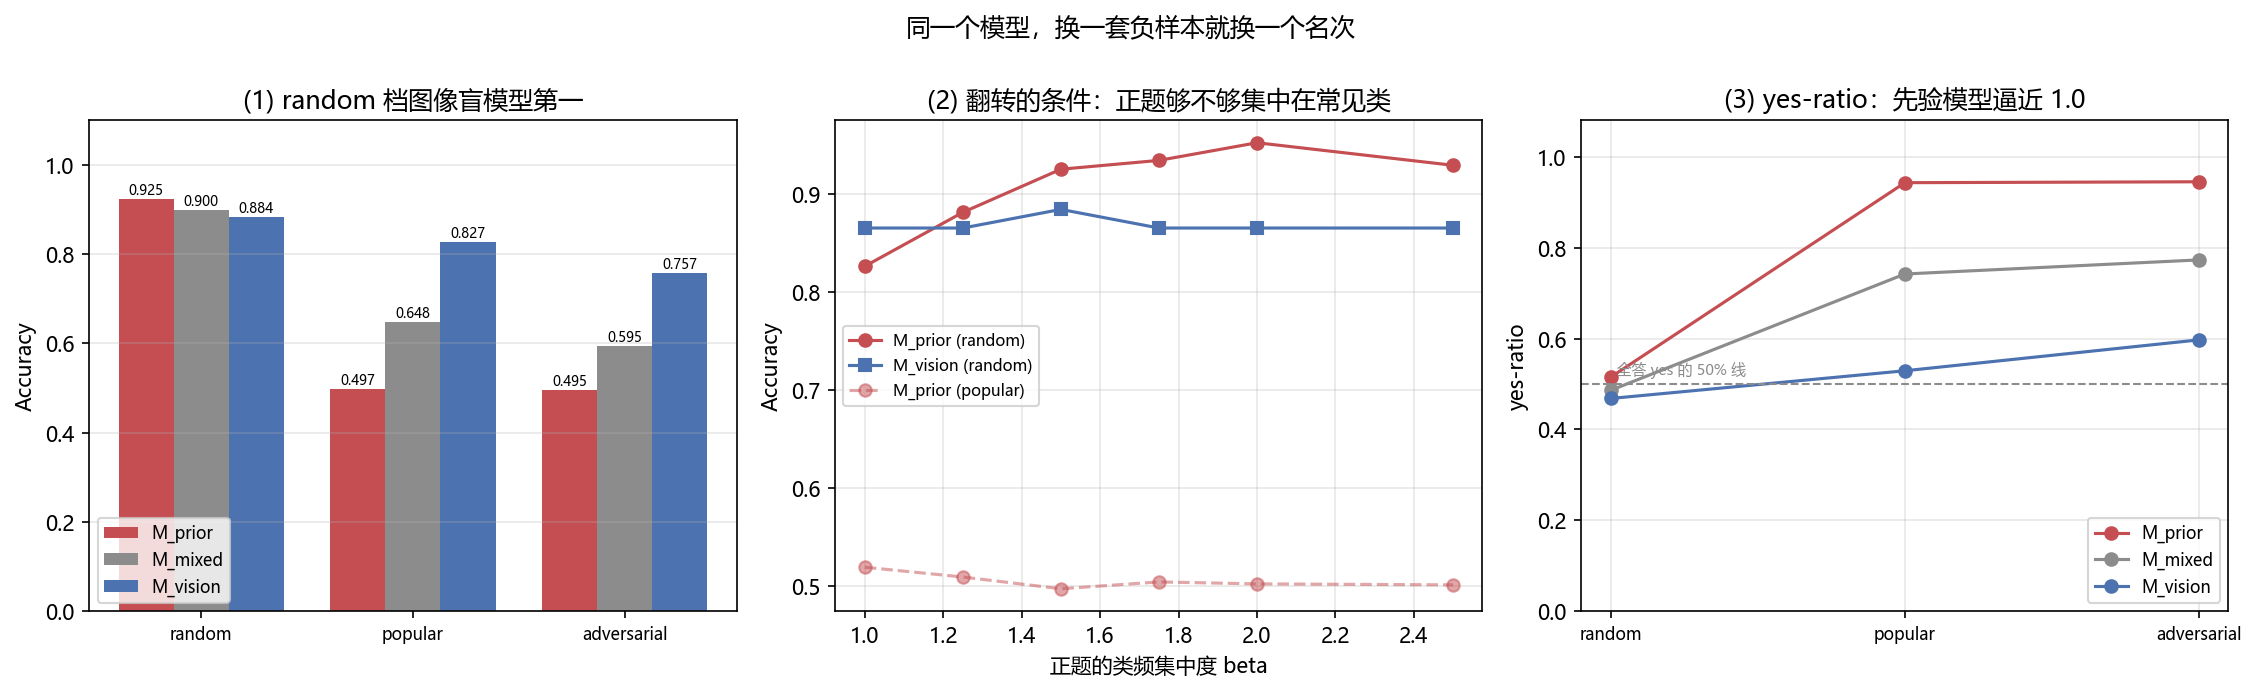
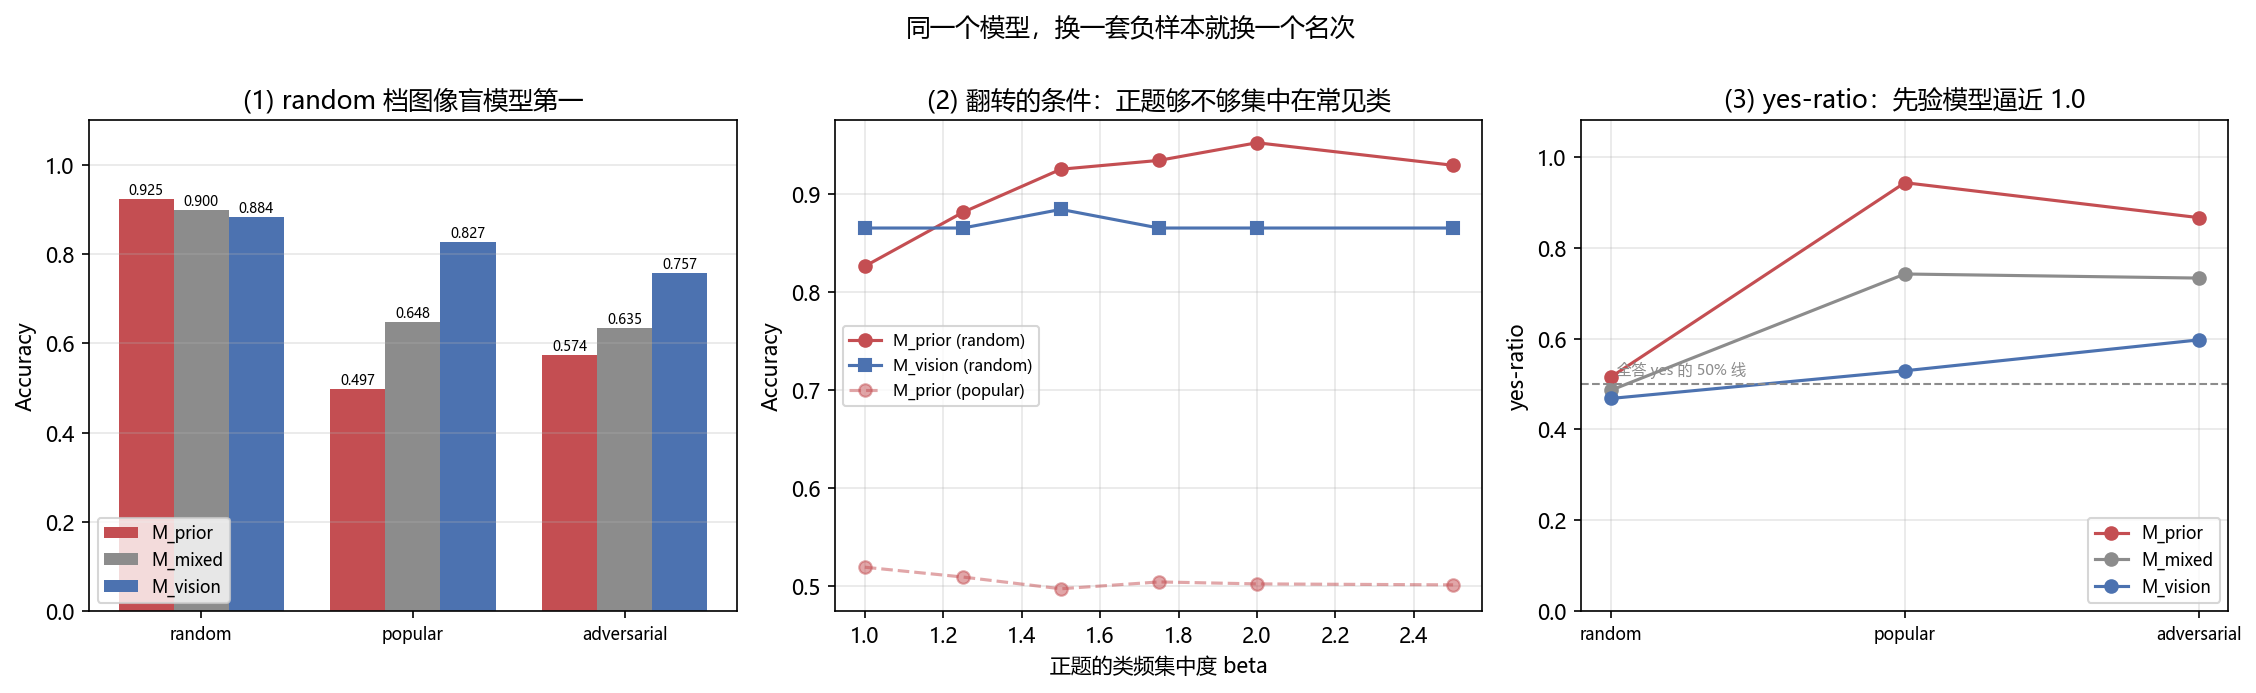
P2 首批：修 6 个静默 bug，全量重跑 24 个 demo，同步受影响数字
- r_eval_protocol：抽样池越界时静默截断（池 512 抽 1024 仍按 n 除），改为断言 + 池耗尽时如实说明
- x_hallucination_metric：对抗档负样本会抽到正题类本身（自相似度 1.0 必进 top-K），剔除该对角线
- t_wm_diagnostics：净增量打印 base3-base3 恒为 0.0000，改读第一档实测值
- n_quant_bits：图例写"间隔 < 步长/2"，判据实际是"间隔 < 步长"，改图例对齐判据
- u_jepa_probe：单条轨迹只有 2750 个测试样本，N_TEST=4000 被静默截断，改成实际值
- a_worldmodel_rssm：KL 的方差项与对数项方向混用（KL(p||q) 接在 KL(q||p) 的均值项上）；训练集即评估集；"开环"其实每步喂真观测——改为 192/64 划分、KL 统一方向并加非负断言、两种口径改名并说清差别

重跑：24 个 demo 全部 exit 0，合计 850.6 秒（此前 README 记 944.8 秒）
同步：02-03 的 rollout 表与结论、09 自测两处、04-VLM 对抗档整行与 yes-ratio 表述

diff --git a/code/a_worldmodel_rssm.py b/code/a_worldmodel_rssm.py
@@ -29,6 +29,8 @@ SEED = 0
 OBS_DIM, ACT_DIM = 12, 4
 T = 40                 # 每条轨迹 40 步 = 0.8 秒
 N_ENV = 256            # 并行环境数
+N_TRAIN_ENV = 192      # 训练用轨迹条数（其余留作 held-out）
+N_EVAL_ENV = N_ENV - N_TRAIN_ENV
 SEQ, BATCH = 16, 32    # 训练时的子序列长度与批大小
 TRAIN_STEPS = 1200
 
@@ -67,12 +69,20 @@ def kl_balanced(mu_p, ls_p, mu_q, ls_q, alpha=0.8):
 
     alpha*kl.detach() 这一项只推动先验去追后验（不回流到编码器），
     (1-alpha)*kl 则同时训练两边。DreamerV3 用这个技巧避免后验塌缩。
+
+    公式必须是同一个方向上的 KL。对角高斯下 KL(q||p) 为
+        0.5 * [ (mu_q-mu_p)^2/sigma_p^2 + sigma_q^2/sigma_p^2 - 1 + 2(ln sigma_p - ln sigma_q) ]
+    均值项用 sigma_p^2 作分母、方差比取 sigma_q^2/sigma_p^2、对数项写 ln(sigma_p/sigma_q)，
+    三处方向要一致；混用会把 KL(p||q) 的方差项接在 KL(q||p) 的均值项上，值可以变成负数。
     """
     ls_p = ls_p.clamp(-4, 4)
     ls_q = ls_q.clamp(-4, 4)
-    kl = 0.5 * ((mu_q - mu_p).pow(2) / ls_p.exp().pow(2)
-                + ls_p.exp().pow(2) / ls_q.exp().pow(2)
-                - 1 + 2 * (ls_q - ls_p))
+    var_p = (2 * ls_p).exp()
+    var_q = (2 * ls_q).exp()
+    kl = 0.5 * ((mu_q - mu_p).pow(2) / var_p
+                + var_q / var_p
+                - 1 + 2 * (ls_p - ls_q))
+    assert float(kl.min()) > -1e-5, "KL 不该为负，先查方向是否混用"
     return (alpha * kl.detach() + (1 - alpha) * kl).sum(-1).mean()
 
 
@@ -106,7 +116,7 @@ def train(wm, OBS, ACT, REW):
     hist = {"step": [], "重建": [], "KL": [], "奖励": [], "总损失": []}
     print(f"{'step':>6} {'重建':>9} {'KL':>9} {'奖励':>9} {'总损失':>10}")
     for step in range(1, TRAIN_STEPS + 1):
-        i = torch.randint(0, N_ENV, (BATCH,))
+        i = torch.randint(0, N_TRAIN_ENV, (BATCH,))
         t0 = int(torch.randint(0, T - SEQ, (1,)))
         o = OBS[i, t0:t0 + SEQ]
         a = ACT[i, t0:t0 + SEQ]
@@ -141,14 +151,18 @@ def train(wm, OBS, ACT, REW):
 
 
 @torch.no_grad()
-def rollout(wm, OBS, ACT, REW, t0=5, n=64, open_loop=False):
+def rollout(wm, OBS, ACT, REW, env_idx, t0=5, mode="teacher"):
     """从 t0 开始在潜空间里往前推演，累积预测奖励。
 
-    open_loop=False: 先验潜变量 rollout —— z 由先验采样，但 GRU 的输入
-                     仍喂真实观测（编码器没被绕过，误差不会累积）
-    open_loop=True : 完全开环 —— 把解码出来的观测再喂回去，误差会滚雪球
+    两种模式都不是"纯先验"：
+      mode="teacher": z 从先验采样，但 GRU 每步仍吃真实观测（单步纠偏）
+      mode="open"   : z 从先验采样，GRU 吃的是上一步解码出来的观测（误差会滚雪球）
+
+    真正的纯先验推演在观测无关的潜空间里才可能；本 demo 的观测是 12 维状态，
+    不喂观测就没有输入，所以只能给这两种口径。想量开环误差，看 mode="open"。
     """
-    i = torch.arange(n)
+    i = torch.as_tensor(env_idx, dtype=torch.long)
+    n = i.numel()
     hx = torch.zeros(n, wm.h)
     z = torch.zeros(n, wm.z)
     for k in range(t0):
@@ -162,9 +176,9 @@ def rollout(wm, OBS, ACT, REW, t0=5, n=64, open_loop=False):
         true.append(REW[i, k])
         mu_p, ls_p = wm.prior(hx).chunk(2, dim=-1)                  # 只用先验，不看观测
         z = mu_p + ls_p.clamp(-4, 4).exp() * torch.randn_like(mu_p)
-        obs_in = obs_recon if open_loop else OBS[i, k]
+        obs_in = obs_recon if mode == "open" else OBS[i, k]
         hx = wm.gru(torch.cat([wm.enc(obs_in), ACT[i, k]], dim=-1), hx)
-        if open_loop:
+        if mode == "open":
             obs_recon, _ = wm.decode(torch.cat([hx, z], dim=-1))
     pred = torch.stack(pred, 1)
     true = torch.stack(true, 1)
@@ -178,21 +192,24 @@ def main():
     print(f"字体: {font or '未找到 CJK 字体，图中中文可能显示为方块'}\n")
 
     OBS, ACT, REW = collect_data()
-    print(f"数据集 obs {tuple(OBS.shape)}  act {tuple(ACT.shape)}  rew {tuple(REW.shape)}\n")
+    print(f"数据集 obs {tuple(OBS.shape)}  act {tuple(ACT.shape)}  rew {tuple(REW.shape)}")
+    print(f"划分：前 {N_TRAIN_ENV} 条轨迹训练，后 {N_EVAL_ENV} 条 held-out（评估只碰后者）\n")
 
     wm = RSSM()
     hist = train(wm, OBS, ACT, REW)
 
-    # ---- 想象 rollout ----
-    pred, true = rollout(wm, OBS, ACT, REW, open_loop=False)
+    # ---- 想象 rollout（只用 held-out 轨迹）----
+    eval_idx = torch.arange(N_TRAIN_ENV, N_ENV)
+    pred, true = rollout(wm, OBS, ACT, REW, eval_idx, mode="teacher")
     p_sum, t_sum = pred.sum(1), true.sum(1)
     dev = abs(p_sum.mean().item() - t_sum.mean().item()) / abs(t_sum.mean().item()) * 100
-    print(f"\n想象 rollout 回报  预测 {p_sum.mean():.1f} | 真实 {t_sum.mean():.1f} | 偏差 {dev:.1f}%")
+    print(f"\n单步纠偏 rollout（每步喂真观测） 预测 {p_sum.mean():.1f} | 真实 {t_sum.mean():.1f} | 偏差 {dev:.1f}%")
 
-    p2, t2 = rollout(wm, OBS, ACT, REW, open_loop=True)
+    p2, t2 = rollout(wm, OBS, ACT, REW, eval_idx, mode="open")
     p2_sum = p2.sum(1)
     dev2 = abs(p2_sum.mean().item() - t2.sum(1).mean().item()) / abs(t2.sum(1).mean().item()) * 100
-    print(f"完全开环 rollout   预测 {p2_sum.mean():.1f} | 真实 {t2.sum(1).mean():.1f} | 偏差 {dev2:.1f}%")
+    print(f"完全开环 rollout（喂解码观测）  预测 {p2_sum.mean():.1f} | 真实 {t2.sum(1).mean():.1f} | 偏差 {dev2:.1f}%")
+    print(f"两者差 {dev2 - dev:+.1f} 个百分点：这就是“每步被观测纠正”与“自己走下去”的距离")
 
     # ---- 图 1：损失曲线 ----
     fig, ax = plotting.plt.subplots(figsize=(8, 4.5))

diff --git a/code/r_eval_protocol.py b/code/r_eval_protocol.py
@@ -88,6 +88,7 @@ def wilson(k, n):
 
 def halfwidth_at(x01, n, reps=400):
     """在 x01 里无放回抽 n 个回合，复现 k 次，报 Wilson 半宽的均值。"""
+    assert 0 < n <= x01.numel(), f"只能从 {x01.numel()} 个回合里抽 n 个，收到 n={n}"
     g = torch.Generator().manual_seed(SEED + n)
     hs = []
     for _ in range(reps):
@@ -147,11 +148,17 @@ def main():
         hw[n] = h
         print(f"  {n:>7}{h * 100:>18.1f}pp{gap / h:>17.2f}")
     need = None
-    for n in range(8, 4097, 8):
+    pool = x_cold.numel()
+    for n in range(8, pool + 1, 8):
         if halfwidth_at(x_cold, n, reps=60) <= gap:
             need = n
             break
-    print(f"  半宽降到实测差距（{gap * 100:.1f}pp）以下，每臂约需 {need} 回合")
+    if need is None:
+        print(f"  池子只有 {pool} 个回合，半宽始终没降到实测差距（{gap * 100:.1f}pp）以下。"
+              f"\n  这不是「再多抽几次就好」：同一个池里抽不同子集只会让区间在同一个宽度附近抖，"
+              f"\n  要更窄的区间得重新跑更多回合，不能拿重抽样凑数。")
+    else:
+        print(f"  半宽降到实测差距（{gap * 100:.1f}pp）以下，每臂约需 {need} 回合")
 
     # ---- 第 3 格：独立单元是回合还是模型
     print(f"\n第 3 格：同一个方法跑 {K_SEEDS} 次独立训练，评测回合数相同")

diff --git a/code/t_wm_diagnostics.py b/code/t_wm_diagnostics.py
@@ -281,9 +281,9 @@ def main():
           f"{r_last['D1b']:.4f}，{r_last['D1b'] / base1b:.2f} 倍），但它对整条时间轴取均值，"
           f"而误差只存在于 {oc:.0f}% 的遮挡步上——涨幅被这一步数占比摊薄。")
     print(f"      (c) D3 只读重现那一瞬：{base3:.4f} -> {r_last['D3']:.4f} m。"
-          f"它自己的基线 0.4963 m 不是遗忘造成的，而是匀速外推本身在加速目标上的"
+          f"它自己的基线 {base3:.4f} m 不是遗忘造成的，而是匀速外推本身在加速目标上的"
           f"误差（nominal 也是这个数），所以判断遗忘要扣基线：净增量 "
-          f"{base3 - base3:.4f} -> {r_last['D3'] - base3:.4f} m。")
+          f"{fz[0][1]['D3'] - base3:.4f} -> {r_last['D3'] - base3:.4f} m。")
     print(f"   -> 把两边的净增量放在一起：同一个失效，在全程平均的单步指标上只体现为 "
           f"{r_last['D1b'] - base1b:.4f} m，在重现瞬间的指标上是 "
           f"{r_last['D3'] - base3:.4f} m，差 "

diff --git a/code/n_quant_bits.py b/code/n_quant_bits.py
@@ -325,7 +325,7 @@ def main():
     cnt = [r[3] for r in sub]
     bnd = [r[4] for r in sub]
     ax.fill_between(xs3, cnt, bnd, color="#c0392b", alpha=0.10)
-    ax.plot(xs3, bnd, "s--", color="#7f8c8d", lw=1.5, label="上界：前两名间隔 < 步长/2 的行占比")
+    ax.plot(xs3, bnd, "s--", color="#7f8c8d", lw=1.5, label="上界：前两名间隔 < 步长 的行占比")
     ax.plot(xs3, cnt, "o-", color="#c0392b", lw=2, label="实测 argmax 翻转率")
     ax.set_xticks(xs3)
     ax.set_xticklabels([f"INT{r[1]}" for r in sub])

diff --git a/code/u_jepa_probe.py b/code/u_jepa_probe.py
@@ -63,7 +63,8 @@ A_NUI = [0.30, 0.27, 0.24, 0.21]
 RANK = 6                    # 瓶颈宽度（两个编码器共用，这是"公平比较"的前提）
 SIGMA2 = [0.01, 0.1, 0.5, 1.0, 3.0]    # 观测噪声方差，自变量
 N_SEQ, T_SEQ, BURN = 6, 3000, 100
-N_TRAIN, N_TEST, N_SPLIT = 150, 4000, 200
+N_TRAIN, N_TEST, N_SPLIT = 150, 2750, 200   # 单条轨迹去掉 burn-in 后只有 2900 个样本，
+                                            # 测试集取满剩下的部分；再大就是空切片了
 RIDGE_ALPHA = 1e-3
 
 

diff --git a/code/x_hallucination_metric.py b/code/x_hallucination_metric.py
@@ -82,6 +82,7 @@ def build_questions(rng, beta=BETA):
     present = np.searchsorted(cum_b, rng.random(N_PER_CLASS))
     # adversarial 候选池：与每个正题类最相似的 K 个类，池内再按 p^beta 抽
     sim = emb @ emb[present].T
+    sim[present, np.arange(N_PER_CLASS)] = -np.inf            # 负题不能正好是这道题的正题类
     topk = np.argpartition(-sim, K_SIM, axis=0)[:K_SIM]        # (K, N)
     w = p[topk] ** beta
     w /= w.sum(axis=0, keepdims=True)

diff --git a/docs/02-世界模型专题/03-模型强化学习世界模型.md b/docs/02-世界模型专题/03-模型强化学习世界模型.md
@@ -575,29 +575,31 @@ def kl_balanced(mu_p, ls_p, mu_q, ls_q, alpha=0.8):
 
 ### 8.2 本地实测结果
 
-用 256 条并行轨迹、每条 40 步（0.8 秒）采集数据，训练 1200 步：
+用 256 条并行轨迹、每条 40 步（0.8 秒）采集数据，前 192 条训练、后 64 条留作 held-out，训练 1200 步：
 
 ```text
   step        重建        KL        奖励       总损失
-   200    0.0098    0.0038    0.0490     0.0607
-   400    0.0040    0.0010    0.0030     0.0076
-   600    0.0104    0.0011    0.0021     0.0131
-   800    0.0098    0.0006    0.0011     0.0112
-  1000    0.0037    0.0004    0.0005     0.0043
-  1200    0.0028    0.0003    0.0005     0.0035
+   200    0.0110    0.0037    0.0456     0.0585
+   400    0.0066    0.0006    0.0023     0.0092
+   600    0.0099    0.0010    0.0012     0.0116
+   800    0.0128    0.0005    0.0003     0.0134
+  1000    0.0016    0.0003    0.0004     0.0021
+  1200    0.0033    0.0003    0.0005     0.0039
 
-想象 rollout 回报  预测 -242.0 | 真实 -242.2 | 偏差 0.1%
-完全开环 rollout   预测 -241.2 | 真实 -242.2 | 偏差 0.4%
+单步纠偏 rollout（每步喂真观测） 预测 -242.2 | 真实 -242.6 | 偏差 0.1%
+完全开环 rollout（喂解码观测）   预测 -239.6 | 真实 -242.6 | 偏差 1.2%
 ```
 
 两种推演方式的区别：
 
 | 方式 | z 的来源 | GRU 的输入 | 结果 |
 |---|---|---|---|
-| **先验 rollout** | 先验 p(z\|h) 采样 | 真实观测 | 偏差 0.1% |
-| **完全开环** | 先验 p(z\|h) 采样 | 上一步**解码**出的观测 | 偏差 0.4% |
+| **单步纠偏** | 先验 p(z\|h) 采样 | 真实观测 | 偏差 0.1% |
+| **完全开环** | 先验 p(z\|h) 采样 | 上一步**解码**出的观测 | 偏差 1.2% |
 
-也就是说，即使把解码出的观测再喂回去、让误差有机会滚雪球，在这个 0.8 秒的短时程上也只掉到 0.4%。**时程一长这个数字会迅速恶化** —— 这正是 Dreamer 类方法在长时程任务上仍然吃力的原因。
+前一种不是"纯先验推演"：z 虽然来自先验，但 GRU 每步都吃真观测，等于每一步都被纠正一次，量的其实是"给定真实历史，奖励头有多准"。真正的纯先验在 12 维状态观测上不成立——不喂观测 GRU 就没有输入。所以能拿来论证开环误差的只有第二行。
+
+第二行在这个 0.8 秒的短时程上掉到 1.2%，比单步纠偏高 1.1 个百分点。**时程一长这个数字会迅速恶化** —— 这正是 Dreamer 类方法在长时程任务上仍然吃力的原因。
 
 ![世界模型训练曲线](../../figures/wm_loss_curve.png)
 

diff --git a/docs/09-专题自测与考察/02-世界模型专题自测.md b/docs/09-专题自测与考察/02-世界模型专题自测.md
@@ -239,7 +239,7 @@
 
 ### 4.3 "世界模型的想象只要够准，就能替代真机交互"
 
-0.8 秒的时程上，想象 rollout 的回报与真实回报差 0.1%，完全开环也只有 0.4%。**时程一长这个数字迅速恶化**，这正是 Dreamer 类方法在长时程任务上仍然吃力的原因。所以世界模型的内循环有一个长度上限，超上限的部分必须回到真机或仿真。→ [03 §8](../02-世界模型专题/03-模型强化学习世界模型.md)
+0.8 秒的时程上，每步被真观测纠正的 rollout 回报与真实回报差 0.1%，完全开环则差 1.2%。**时程一长这个数字迅速恶化**，这正是 Dreamer 类方法在长时程任务上仍然吃力的原因。所以世界模型的内循环有一个长度上限，超上限的部分必须回到真机或仿真。→ [03 §8](../02-世界模型专题/03-模型强化学习世界模型.md)
 
 ### 4.4 "3DGS 快，实时建图就该用它"
 
@@ -383,7 +383,7 @@
 <details>
 <summary>参考答案</summary>
 
-**latent MBRL 的排除条件是任务时程超过想象的上限。** 0.8 秒上想象回报与真实差 0.4%，再长迅速恶化；任务一次决策要到分钟级，想象就不能当唯一内循环。
+**latent MBRL 的排除条件是任务时程超过想象的上限。** 0.8 秒上完全开环的回报与真实差 1.2%，再长迅速恶化；任务一次决策要到分钟级，想象就不能当唯一内循环。
 
 **视频生成的排除条件是端上实时性与模型体积。** 三篇报告的延迟与体积是 15 ms / 45 MB、1.2 GB、800 MB，只有第一篇落在机载两档算力之内。
 
